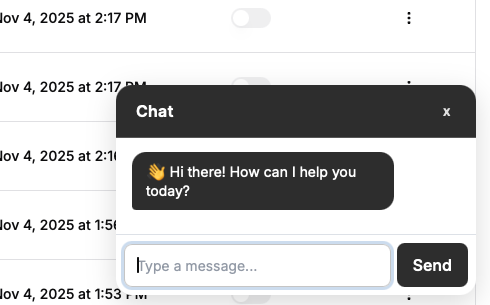
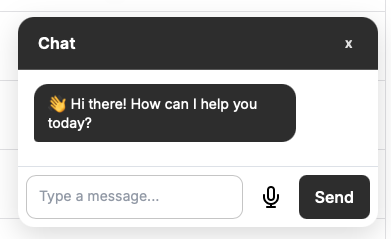
fix: fix UMD build failure, update readme

diff --git a/packages/widgets/vite.config.ts b/packages/widgets/vite.config.ts
@@ -43,8 +43,10 @@ export default defineConfig(() => ({
       },
     },
     define: {
-      // Required by React
+      // Polyfills for UMD build. NODE_ENV was required by React
+      'process.env': {},
       'process.env.NODE_ENV': JSON.stringify('production'),
+      process: JSON.stringify({ env: { NODE_ENV: 'production' } }),
     },
   },
 }));

diff --git a/packages/widgets/README.md b/packages/widgets/README.md
@@ -16,6 +16,8 @@ Sessions are persisted in local-storage to allow chat continuity
 
 Display text supports markdown
 
+Supports `speech-to-text` (Version 0.0.15 onward)
+
 ## Usage
 
 ### Prerequisites
